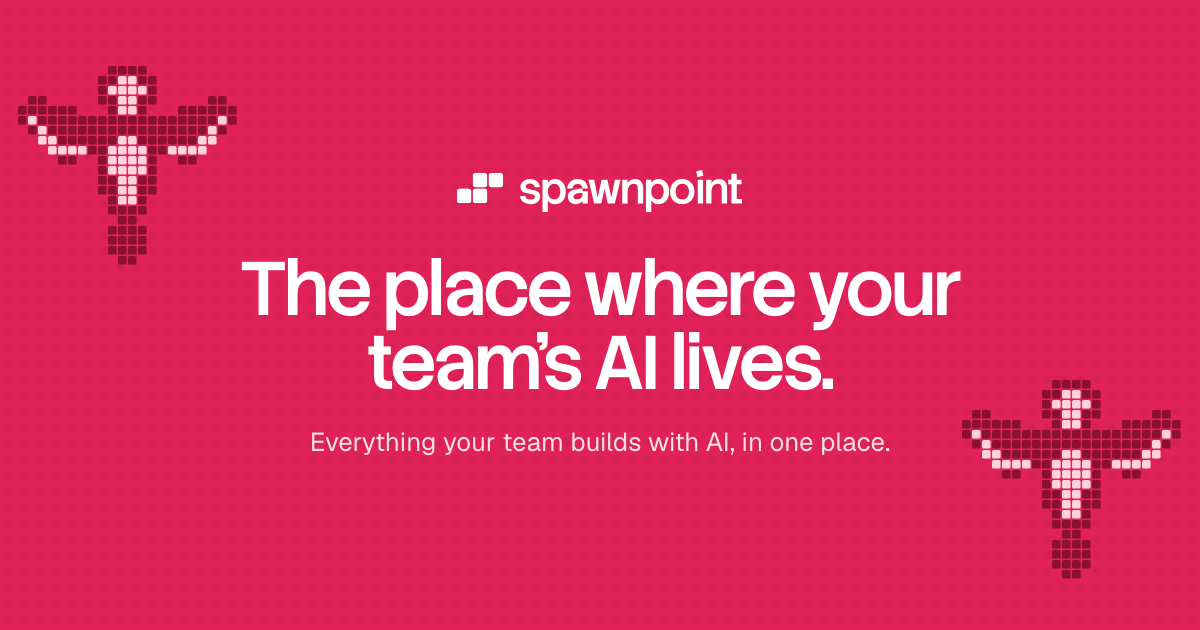
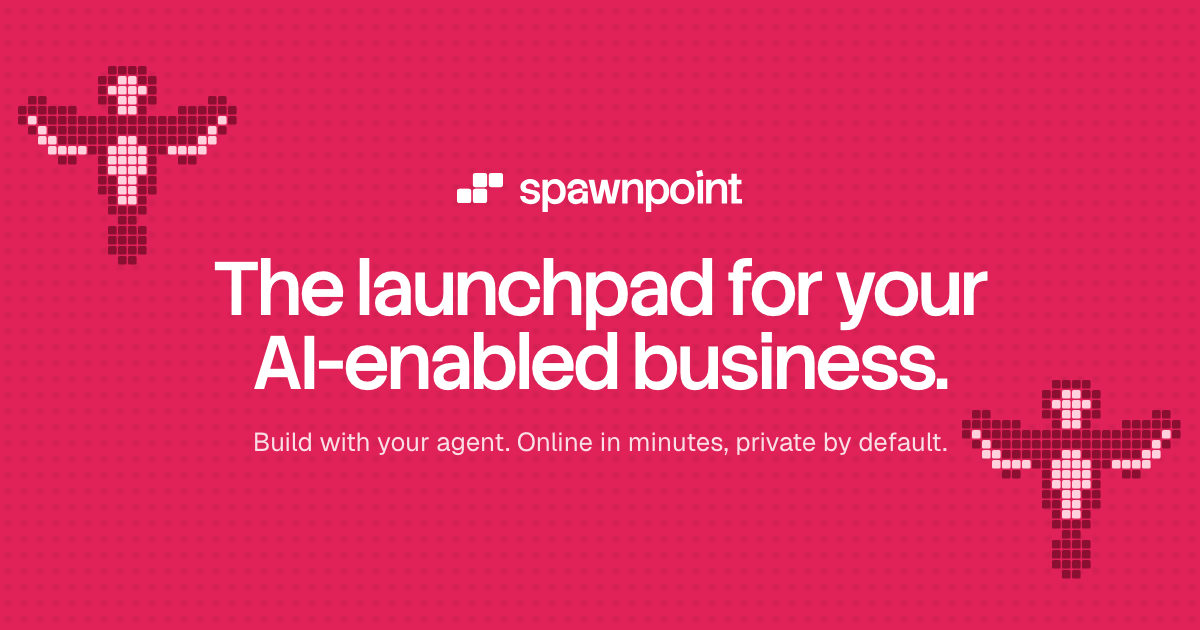
feat(brand): redraw the share card with the launchpad line
The share card still showed the old headline. og-image.html now draws
the launchpad headline, og.png is re-rendered from it, and every page
asks for og.png?v=9 so link previews fetch the new card. The image alt
text, the FAQ description, the install banner, and the README carry
the new line too. Blog pages are built from the app repo and change
there.

Changed region(s): [[0.185, 0.3921, 0.8325, 0.6333], [0.2158, 0.6937, 0.8017, 0.7238]]

diff --git a/faq.html b/faq.html
@@ -7,7 +7,7 @@
     <link rel="icon" href="favicon.ico" sizes="48x48" />
     <link rel="icon" href="favicon.svg" type="image/svg+xml" />
     <link rel="apple-touch-icon" href="apple-touch-icon.png" />
-    <meta name="description" content="Answers to the questions companies ask about spawnpoint, the place where your team&#x27;s AI lives: what it is, how a team works, who can open an app, what agents can build, safety, and pricing." />
+    <meta name="description" content="Answers to the questions companies ask about spawnpoint, the launchpad for your AI-enabled business: what it is, how a team works, who can open an app, what agents can build, safety, and pricing." />
     <link rel="preconnect" href="https://fonts.googleapis.com" />
     <link rel="preconnect" href="https://fonts.gstatic.com" crossorigin />
     <link href="https://fonts.googleapis.com/css2?family=Geist:wght@400;500&family=Stack+Sans+Headline:wght@500&display=swap" rel="stylesheet" />
@@ -19,16 +19,16 @@
     <meta property="og:type" content="website" />
     <meta property="og:site_name" content="spawnpoint" />
     <meta property="og:title" content="Common questions · spawnpoint" />
-    <meta property="og:description" content="Answers to the questions companies ask about spawnpoint, the place where your team&#x27;s AI lives: what it is, how a team works, who can open an app, what agents can build, safety, and pricing." />
+    <meta property="og:description" content="Answers to the questions companies ask about spawnpoint, the launchpad for your AI-enabled business: what it is, how a team works, who can open an app, what agents can build, safety, and pricing." />
     <meta property="og:url" content="https://getspawnpoint.com/faq.html" />
-    <meta property="og:image" content="https://getspawnpoint.com/og.png?v=8" />
+    <meta property="og:image" content="https://getspawnpoint.com/og.png?v=9" />
     <meta property="og:image:width" content="1200" />
     <meta property="og:image:height" content="630" />
-    <meta property="og:image:alt" content="spawnpoint: the place where your team's AI lives" />
+    <meta property="og:image:alt" content="spawnpoint: the launchpad for your AI-enabled business" />
     <meta name="twitter:card" content="summary_large_image" />
     <meta name="twitter:title" content="Common questions · spawnpoint" />
-    <meta name="twitter:description" content="Answers to the questions companies ask about spawnpoint, the place where your team&#x27;s AI lives: what it is, how a team works, who can open an app, what agents can build, safety, and pricing." />
-    <meta name="twitter:image" content="https://getspawnpoint.com/og.png?v=8" />
+    <meta name="twitter:description" content="Answers to the questions companies ask about spawnpoint, the launchpad for your AI-enabled business: what it is, how a team works, who can open an app, what agents can build, safety, and pricing." />
+    <meta name="twitter:image" content="https://getspawnpoint.com/og.png?v=9" />
     <meta name="theme-color" content="#171717" />
     <script type="application/ld+json">
 {

diff --git a/index.html b/index.html
@@ -31,17 +31,17 @@
       content="Build apps with your coding agent and launch them with one sentence: tools for your team and apps for your customers, with open-source AI models, payments, your own domain, and private links by default. Works with Claude Code, Codex, Cursor, and more."
     />
     <meta property="og:url" content="https://getspawnpoint.com/" />
-    <meta property="og:image" content="https://getspawnpoint.com/og.png?v=8" />
+    <meta property="og:image" content="https://getspawnpoint.com/og.png?v=9" />
     <meta property="og:image:width" content="1200" />
     <meta property="og:image:height" content="630" />
-    <meta property="og:image:alt" content="Pink tile sea angels behind the spawnpoint logo and the headline: the place where your team's AI lives." />
+    <meta property="og:image:alt" content="Pink tile sea angels behind the spawnpoint logo and the headline: the launchpad for your AI-enabled business." />
     <meta name="twitter:card" content="summary_large_image" />
     <meta name="twitter:title" content="spawnpoint: the launchpad for your AI-enabled business" />
     <meta
       name="twitter:description"
       content="Build apps with your coding agent and launch them with one sentence: tools for your team and apps for your customers, with open-source AI models, payments, your own domain, and private links by default. Works with Claude Code, Codex, Cursor, and more."
     />
-    <meta name="twitter:image" content="https://getspawnpoint.com/og.png?v=8" />
+    <meta name="twitter:image" content="https://getspawnpoint.com/og.png?v=9" />
     <meta name="theme-color" content="#171717" />
     <script type="application/ld+json">
 {

diff --git a/blog/internal-tools-built-with-ai-compared/index.html b/blog/internal-tools-built-with-ai-compared/index.html
@@ -21,14 +21,14 @@
     <meta property="og:title" content="Internal tools built with AI: 6 places a company can keep them, compared · spawnpoint" />
     <meta property="og:description" content="Where a company can keep the dashboards and tools its people build with coding agents, compared on who in the company can open them, who owns them, and the price for 10 builders and 40 coworkers. spawnpoint, Retool, Replit, Lovable, Vercel, and Claude Team." />
     <meta property="og:url" content="https://getspawnpoint.com/blog/internal-tools-built-with-ai-compared/" />
-    <meta property="og:image" content="https://getspawnpoint.com/og.png?v=8" />
+    <meta property="og:image" content="https://getspawnpoint.com/og.png?v=9" />
     <meta property="og:image:width" content="1200" />
     <meta property="og:image:height" content="630" />
     <meta property="og:image:alt" content="spawnpoint: the place where your team's AI lives" />
     <meta name="twitter:card" content="summary_large_image" />
     <meta name="twitter:title" content="Internal tools built with AI: 6 places a company can keep them, compared · spawnpoint" />
     <meta name="twitter:description" content="Where a company can keep the dashboards and tools its people build with coding agents, compared on who in the company can open them, who owns them, and the price for 10 builders and 40 coworkers. spawnpoint, Retool, Replit, Lovable, Vercel, and Claude Team." />
-    <meta name="twitter:image" content="https://getspawnpoint.com/og.png?v=8" />
+    <meta name="twitter:image" content="https://getspawnpoint.com/og.png?v=9" />
     <meta name="theme-color" content="#171717" />
   </head>
   <body>

diff --git a/blog/where-to-put-apps-you-build-with-claude-code/index.html b/blog/where-to-put-apps-you-build-with-claude-code/index.html
@@ -21,14 +21,14 @@
     <meta property="og:title" content="Where to put the apps you build with Claude Code: 7 options compared · spawnpoint" />
     <meta property="og:description" content="Seven places an app your coding agent wrote can go online, compared on who can open a private app, what ten people who build pay, and what the app can be. spawnpoint, Vercel, Replit, Lovable, Base44, Retool, and Claude artifacts." />
     <meta property="og:url" content="https://getspawnpoint.com/blog/where-to-put-apps-you-build-with-claude-code/" />
-    <meta property="og:image" content="https://getspawnpoint.com/og.png?v=8" />
+    <meta property="og:image" content="https://getspawnpoint.com/og.png?v=9" />
     <meta property="og:image:width" content="1200" />
     <meta property="og:image:height" content="630" />
     <meta property="og:image:alt" content="spawnpoint: the place where your team's AI lives" />
     <meta name="twitter:card" content="summary_large_image" />
     <meta name="twitter:title" content="Where to put the apps you build with Claude Code: 7 options compared · spawnpoint" />
     <meta name="twitter:description" content="Seven places an app your coding agent wrote can go online, compared on who can open a private app, what ten people who build pay, and what the app can be. spawnpoint, Vercel, Replit, Lovable, Base44, Retool, and Claude artifacts." />
-    <meta name="twitter:image" content="https://getspawnpoint.com/og.png?v=8" />
+    <meta name="twitter:image" content="https://getspawnpoint.com/og.png?v=9" />
     <meta name="theme-color" content="#171717" />
   </head>
   <body>

diff --git a/blog/share-skills-and-mcp-servers-with-your-team/index.html b/blog/share-skills-and-mcp-servers-with-your-team/index.html
@@ -21,14 +21,14 @@
     <meta property="og:title" content="How to share Claude Code skills and MCP servers with your whole team · spawnpoint" />
     <meta property="og:description" content="Publish your skills and deploy your MCP servers to a spawnpoint team. Every member&#39;s agent sees the team&#39;s skills, and one install line adds the team&#39;s MCP servers and skills to each person&#39;s Claude Code or Codex." />
     <meta property="og:url" content="https://getspawnpoint.com/blog/share-skills-and-mcp-servers-with-your-team/" />
-    <meta property="og:image" content="https://getspawnpoint.com/og.png?v=8" />
+    <meta property="og:image" content="https://getspawnpoint.com/og.png?v=9" />
     <meta property="og:image:width" content="1200" />
     <meta property="og:image:height" content="630" />
     <meta property="og:image:alt" content="spawnpoint: the place where your team's AI lives" />
     <meta name="twitter:card" content="summary_large_image" />
     <meta name="twitter:title" content="How to share Claude Code skills and MCP servers with your whole team · spawnpoint" />
     <meta name="twitter:description" content="Publish your skills and deploy your MCP servers to a spawnpoint team. Every member&#39;s agent sees the team&#39;s skills, and one install line adds the team&#39;s MCP servers and skills to each person&#39;s Claude Code or Codex." />
-    <meta name="twitter:image" content="https://getspawnpoint.com/og.png?v=8" />
+    <meta name="twitter:image" content="https://getspawnpoint.com/og.png?v=9" />
     <meta name="theme-color" content="#171717" />
   </head>
   <body>

diff --git a/blog/building-a-treg-powered-crm/index.html b/blog/building-a-treg-powered-crm/index.html
@@ -21,14 +21,14 @@
     <meta property="og:title" content="We built our treg-powered CRM on spawnpoint · spawnpoint" />
     <meta property="og:description" content="The CRM we use to find spawnpoint&#39;s own customers finds people through treg and runs on spawnpoint as a Node server, a Postgres database, an always-on Discord bot, and an open AI model. Claude Code built it and put it online in about fifteen minutes." />
     <meta property="og:url" content="https://getspawnpoint.com/blog/building-a-treg-powered-crm/" />
-    <meta property="og:image" content="https://getspawnpoint.com/og.png?v=8" />
+    <meta property="og:image" content="https://getspawnpoint.com/og.png?v=9" />
     <meta property="og:image:width" content="1200" />
     <meta property="og:image:height" content="630" />
     <meta property="og:image:alt" content="spawnpoint: the place where your team's AI lives" />
     <meta name="twitter:card" content="summary_large_image" />
     <meta name="twitter:title" content="We built our treg-powered CRM on spawnpoint · spawnpoint" />
     <meta name="twitter:description" content="The CRM we use to find spawnpoint&#39;s own customers finds people through treg and runs on spawnpoint as a Node server, a Postgres database, an always-on Discord bot, and an open AI model. Claude Code built it and put it online in about fifteen minutes." />
-    <meta name="twitter:image" content="https://getspawnpoint.com/og.png?v=8" />
+    <meta name="twitter:image" content="https://getspawnpoint.com/og.png?v=9" />
     <meta name="theme-color" content="#171717" />
   </head>
   <body>

diff --git a/blog/kairos-hackathon-in-a-day/index.html b/blog/kairos-hackathon-in-a-day/index.html
@@ -21,14 +21,14 @@
     <meta property="og:title" content="How a hackathon team shipped Kairos in a day with spawnpoint · spawnpoint" />
     <meta property="og:description" content="Kiran Devihosur&#39;s team built Kairos, a networking companion for job seekers, in one day at Patch the Conference in San Francisco. Their coding agent put it online with spawnpoint, and it won the hackathon&#39;s Bright Data track." />
     <meta property="og:url" content="https://getspawnpoint.com/blog/kairos-hackathon-in-a-day/" />
-    <meta property="og:image" content="https://getspawnpoint.com/og.png?v=8" />
+    <meta property="og:image" content="https://getspawnpoint.com/og.png?v=9" />
     <meta property="og:image:width" content="1200" />
     <meta property="og:image:height" content="630" />
     <meta property="og:image:alt" content="spawnpoint: the place where your team's AI lives" />
     <meta name="twitter:card" content="summary_large_image" />
     <meta name="twitter:title" content="How a hackathon team shipped Kairos in a day with spawnpoint · spawnpoint" />
     <meta name="twitter:description" content="Kiran Devihosur&#39;s team built Kairos, a networking companion for job seekers, in one day at Patch the Conference in San Francisco. Their coding agent put it online with spawnpoint, and it won the hackathon&#39;s Bright Data track." />
-    <meta name="twitter:image" content="https://getspawnpoint.com/og.png?v=8" />
+    <meta name="twitter:image" content="https://getspawnpoint.com/og.png?v=9" />
     <meta name="theme-color" content="#171717" />
   </head>
   <body>

diff --git a/blog/put-a-claude-code-app-online/index.html b/blog/put-a-claude-code-app-online/index.html
@@ -21,14 +21,14 @@
     <meta property="og:title" content="How to put an app you built with Claude Code online · spawnpoint" />
     <meta property="og:description" content="Install spawnpoint once, sign in once, and tell Claude Code to deploy. A minute or two later it gives you a private link that stays online after you close your laptop. The same works in Codex, Cursor, Copilot, and a Claude chat." />
     <meta property="og:url" content="https://getspawnpoint.com/blog/put-a-claude-code-app-online/" />
-    <meta property="og:image" content="https://getspawnpoint.com/og.png?v=8" />
+    <meta property="og:image" content="https://getspawnpoint.com/og.png?v=9" />
     <meta property="og:image:width" content="1200" />
     <meta property="og:image:height" content="630" />
     <meta property="og:image:alt" content="spawnpoint: the place where your team's AI lives" />
     <meta name="twitter:card" content="summary_large_image" />
     <meta name="twitter:title" content="How to put an app you built with Claude Code online · spawnpoint" />
     <meta name="twitter:description" content="Install spawnpoint once, sign in once, and tell Claude Code to deploy. A minute or two later it gives you a private link that stays online after you close your laptop. The same works in Codex, Cursor, Copilot, and a Claude chat." />
-    <meta name="twitter:image" content="https://getspawnpoint.com/og.png?v=8" />
+    <meta name="twitter:image" content="https://getspawnpoint.com/og.png?v=9" />
     <meta name="theme-color" content="#171717" />
   </head>
   <body>

diff --git a/blog/spawnpoint-vs-base44/index.html b/blog/spawnpoint-vs-base44/index.html
@@ -21,14 +21,14 @@
     <meta property="og:title" content="spawnpoint vs Base44 for a team&#39;s apps · spawnpoint" />
     <meta property="og:description" content="On spawnpoint every app starts private, building is not metered, and the people you share an app with open it with an email code and no account. Base44 needs a paid plan for a private app and charges credits for each change its AI makes." />
     <meta property="og:url" content="https://getspawnpoint.com/blog/spawnpoint-vs-base44/" />
-    <meta property="og:image" content="https://getspawnpoint.com/og.png?v=8" />
+    <meta property="og:image" content="https://getspawnpoint.com/og.png?v=9" />
     <meta property="og:image:width" content="1200" />
     <meta property="og:image:height" content="630" />
     <meta property="og:image:alt" content="spawnpoint: the place where your team's AI lives" />
     <meta name="twitter:card" content="summary_large_image" />
     <meta name="twitter:title" content="spawnpoint vs Base44 for a team&#39;s apps · spawnpoint" />
     <meta name="twitter:description" content="On spawnpoint every app starts private, building is not metered, and the people you share an app with open it with an email code and no account. Base44 needs a paid plan for a private app and charges credits for each change its AI makes." />
-    <meta name="twitter:image" content="https://getspawnpoint.com/og.png?v=8" />
+    <meta name="twitter:image" content="https://getspawnpoint.com/og.png?v=9" />
     <meta name="theme-color" content="#171717" />
   </head>
   <body>

diff --git a/agents.html b/agents.html
@@ -61,14 +61,14 @@
     <meta property="og:title" content="Supported agents · spawnpoint docs" />
     <meta property="og:description" content="Every coding agent spawnpoint supports and how each one connects: Claude Code, Codex CLI, Cursor, opencode, GitHub Copilot CLI, VS Code Copilot, jcode, DeepSeek Harness, Antigravity, and any other MCP client." />
     <meta property="og:url" content="https://getspawnpoint.com/agents.html" />
-    <meta property="og:image" content="https://getspawnpoint.com/og.png?v=8" />
+    <meta property="og:image" content="https://getspawnpoint.com/og.png?v=9" />
     <meta property="og:image:width" content="1200" />
     <meta property="og:image:height" content="630" />
-    <meta property="og:image:alt" content="spawnpoint: the place where your team's AI lives" />
+    <meta property="og:image:alt" content="spawnpoint: the launchpad for your AI-enabled business" />
     <meta name="twitter:card" content="summary_large_image" />
     <meta name="twitter:title" content="Supported agents · spawnpoint docs" />
     <meta name="twitter:description" content="Every coding agent spawnpoint supports and how each one connects: Claude Code, Codex CLI, Cursor, opencode, GitHub Copilot CLI, VS Code Copilot, jcode, DeepSeek Harness, Antigravity, and any other MCP client." />
-    <meta name="twitter:image" content="https://getspawnpoint.com/og.png?v=8" />
+    <meta name="twitter:image" content="https://getspawnpoint.com/og.png?v=9" />
     <meta name="theme-color" content="#171717" />
   </head>
   <body>

diff --git a/blog/spawnpoint-vs-vercel/index.html b/blog/spawnpoint-vs-vercel/index.html
@@ -21,14 +21,14 @@
     <meta property="og:title" content="spawnpoint vs Vercel for the apps your team builds with AI · spawnpoint" />
     <meta property="og:description" content="Vercel suits engineers shipping a product to the public. spawnpoint suits the small apps people across a company build with a coding agent and share with coworkers, who open them with an email code and no account." />
     <meta property="og:url" content="https://getspawnpoint.com/blog/spawnpoint-vs-vercel/" />
-    <meta property="og:image" content="https://getspawnpoint.com/og.png?v=8" />
+    <meta property="og:image" content="https://getspawnpoint.com/og.png?v=9" />
     <meta property="og:image:width" content="1200" />
     <meta property="og:image:height" content="630" />
     <meta property="og:image:alt" content="spawnpoint: the place where your team's AI lives" />
     <meta name="twitter:card" content="summary_large_image" />
     <meta name="twitter:title" content="spawnpoint vs Vercel for the apps your team builds with AI · spawnpoint" />
     <meta name="twitter:description" content="Vercel suits engineers shipping a product to the public. spawnpoint suits the small apps people across a company build with a coding agent and share with coworkers, who open them with an email code and no account." />
-    <meta name="twitter:image" content="https://getspawnpoint.com/og.png?v=8" />
+    <meta name="twitter:image" content="https://getspawnpoint.com/og.png?v=9" />
     <meta name="theme-color" content="#171717" />
   </head>
   <body>

diff --git a/blog/spawnpoint-vs-replit/index.html b/blog/spawnpoint-vs-replit/index.html
@@ -21,14 +21,14 @@
     <meta property="og:title" content="spawnpoint vs Replit for a team&#39;s apps · spawnpoint" />
     <meta property="og:description" content="Replit is an editor, an agent, and publishing in one product, paid for in credits. spawnpoint puts the apps your team builds with Claude Code, Codex, or Cursor online for one flat price, shared with people who need no account." />
     <meta property="og:url" content="https://getspawnpoint.com/blog/spawnpoint-vs-replit/" />
-    <meta property="og:image" content="https://getspawnpoint.com/og.png?v=8" />
+    <meta property="og:image" content="https://getspawnpoint.com/og.png?v=9" />
     <meta property="og:image:width" content="1200" />
     <meta property="og:image:height" content="630" />
     <meta property="og:image:alt" content="spawnpoint: the place where your team's AI lives" />
     <meta name="twitter:card" content="summary_large_image" />
     <meta name="twitter:title" content="spawnpoint vs Replit for a team&#39;s apps · spawnpoint" />
     <meta name="twitter:description" content="Replit is an editor, an agent, and publishing in one product, paid for in credits. spawnpoint puts the apps your team builds with Claude Code, Codex, or Cursor online for one flat price, shared with people who need no account." />
-    <meta name="twitter:image" content="https://getspawnpoint.com/og.png?v=8" />
+    <meta name="twitter:image" content="https://getspawnpoint.com/og.png?v=9" />
     <meta name="theme-color" content="#171717" />
   </head>
   <body>
